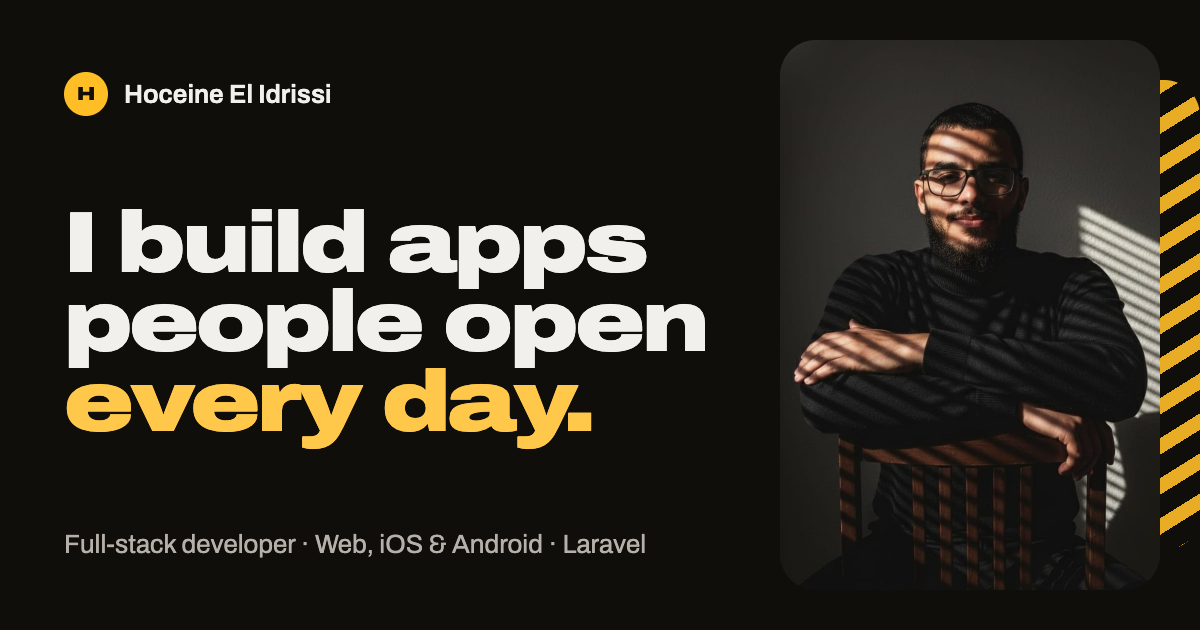
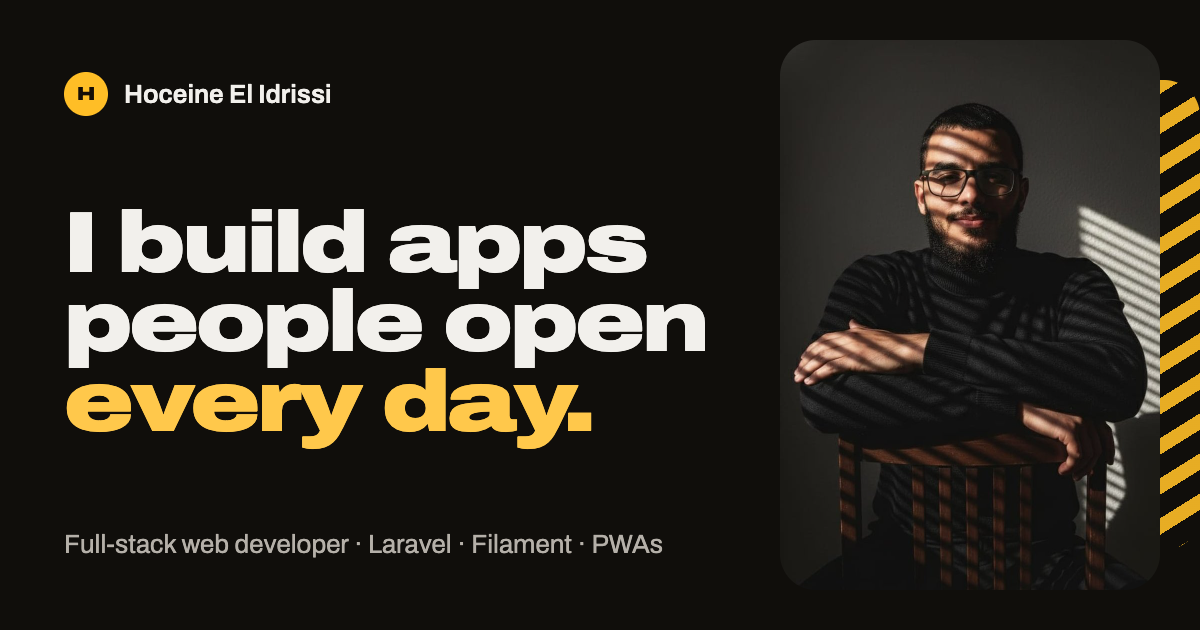
content: position as a web developer, with PWAs instead of native mobile

Changed region(s): [[0.1542, 0.8444, 0.555, 0.9048]]

diff --git a/assets/constants/index.js b/assets/constants/index.js
@@ -3,7 +3,7 @@ export const SITE_URL = "https://hoceine.com";
 export const profile = {
     name: "Hoceine El Idrissi",
     firstName: "Hoceine",
-    role: "Full-stack developer",
+    role: "Full-stack web developer",
     email: "contact@hoceine.com",
     whatsapp: "212697361188",
     formEndpoint: "https://formsubmit.co/ajax/contact@hoceine.com",
@@ -12,7 +12,7 @@ export const profile = {
     photo: "/images/hoceine.jpeg",
     twitter: "@HoceineElidrisi",
     description:
-        "Hoceine El Idrissi is a full-stack developer in Morocco building web platforms, native iOS and Android apps with NativePHP, and Filament admin panels, often in Arabic, for teams in Saudi Arabia, the UK and beyond.",
+        "Hoceine El Idrissi is a full-stack web developer in Morocco building web platforms, installable web apps (PWAs) and Filament admin panels, often in Arabic, for teams in Saudi Arabia, the UK and beyond.",
 };
 
 export const navLinks = [
@@ -28,8 +28,8 @@ export const services = [
         body: "From a first version you can put in front of users to a platform with tenants, roles, billing and four languages. Laravel on the back, Livewire, React or Vue on the front, whichever fits.",
     },
     {
-        title: "Mobile apps for iOS and Android",
-        body: "Native apps built with NativePHP that share the Laravel codebase you already have: camera, microphone, push notifications, offline screens. WiserPocket ships this way.",
+        title: "Installable web apps (PWAs)",
+        body: "Phone-first web apps that install to the home screen, work offline for the basics and send push notifications, without an app store in the way. Nokhbat Alhoffaz and WiserPocket both work this way.",
     },
     {
         title: "Admin panels and Filament plugins",
@@ -73,7 +73,7 @@ export const technologies = [
     { name: "TypeScript", icon: "/images/tech/ts.svg", group: "also" },
     { name: "MySQL", icon: "/images/tech/mysql.svg", group: "also" },
     { name: "React", icon: "/images/tech/react.svg", group: "also" },
-    { name: "NativePHP", icon: null, group: "also" },
+    { name: "PWA", icon: null, group: "also" },
     { name: "Pest", icon: null, group: "also" },
     { name: "Laravel Forge", icon: "/images/tech/forge.svg", group: "tools" },
     { name: "GitHub", icon: "/images/tech/github.svg", group: "tools" },
@@ -142,19 +142,19 @@ export const projects = [
     },
     {
         name: "WiserPocket",
-        tagline: "AI finance tracker, on web, iOS and Android",
+        tagline: "AI finance tracker you can talk to",
         description:
-            "Log spending by talking or by snapping a receipt, then ask an AI assistant about your own money. Budgets, goals, debts and recurring transactions in four languages, with a native mobile app built on NativePHP.",
+            "Log spending by talking or by snapping a receipt, then ask an AI assistant about your own money. Budgets, goals, debts and recurring transactions in four languages, installable on any phone.",
         year: 2025,
         role: "Solo",
-        platforms: "Web, iOS, Android",
-        stack: ["Laravel", "React", "NativePHP", "Gemini"],
+        platforms: "Web, PWA",
+        stack: ["Laravel", "React", "Inertia", "Gemini"],
         cover: "phone",
         url: "/projects/wiserpocket",
         demo: "https://wiserpocket.com",
         highlights: [
             "Voice and receipt input",
-            "Native iOS and Android with NativePHP",
+            "Installable, with an AI assistant that has memory",
             "English, Arabic, French and Spanish",
         ],
         featured: true,
@@ -234,20 +234,20 @@ export const projects = [
     },
     {
         name: "DecorCopilot",
-        tagline: "AI interior design, web and mobile",
+        tagline: "AI interior design",
         description:
-            "Photograph a room and restyle it in 30+ design styles with Google Gemini. Visual search, floor planning and suggestions you can act on, as a PWA and a NativePHP mobile app.",
+            "Photograph a room and restyle it in 30+ design styles with Google Gemini. Visual search, floor planning and suggestions you can act on, as an installable web app.",
         year: 2024,
         role: "Full stack",
-        platforms: "Web, mobile",
-        stack: ["Laravel", "Inertia", "Gemini", "NativePHP"],
+        platforms: "Web, PWA",
+        stack: ["Laravel", "Inertia", "Gemini", "PWA"],
         cover: "gallery",
         url: "/projects/decorcopilot",
         demo: "https://decorcopilot.com",
         highlights: [
             "30+ design styles",
             "Google Gemini image generation",
-            "PWA and NativePHP mobile app",
+            "Installable as a PWA",
         ],
         featured: true,
     },

diff --git a/components/Home/About.vue b/components/Home/About.vue
@@ -21,10 +21,10 @@ const groups = [
           <p>
             Laravel is home. On top of it I reach for whatever the product needs:
             <strong class="font-semibold text-ink">Livewire and Filament</strong> for admin-heavy platforms,
-            <strong class="font-semibold text-ink">React or Vue</strong> for rich interfaces, and
-            <strong class="font-semibold text-ink">NativePHP</strong> when the app belongs on a phone. That is how a
-            finance tracker ends up on the web, iOS and Android from one codebase, and a Hajj platform ships with six
-            separate panels without turning to mud.
+            <strong class="font-semibold text-ink">React or Vue</strong> for rich interfaces, and a
+            <strong class="font-semibold text-ink">PWA</strong> when people should keep it on their phone. That is how
+            a Quran circles app ends up on students' home screens, and a Hajj platform ships with six separate panels
+            without turning to mud.
           </p>
           <p>
             I care about the parts nobody sees in a demo: tenancy boundaries, queues that recover, tests that catch the

diff --git a/pages/index.vue b/pages/index.vue
@@ -4,9 +4,9 @@ import { SITE_URL, profile, projects } from "~/assets/constants";
 useHead({ titleTemplate: null });
 
 usePageSeo({
-  title: `${profile.name} · Full-stack developer, web and mobile`,
+  title: `${profile.name} · Full-stack web developer`,
   description:
-    "Hoceine El Idrissi is a full-stack developer in Morocco building web platforms, native iOS and Android apps with NativePHP, and Filament admin panels. See selected work, services and writing.",
+    "Hoceine El Idrissi is a full-stack web developer in Morocco building web platforms, installable web apps and Filament admin panels. See selected work, services and writing.",
   path: "/",
   type: "profile",
 });

diff --git a/components/Home/Work.vue b/components/Home/Work.vue
@@ -13,7 +13,7 @@ const layout = ["md:col-span-7", "md:col-span-5 md:mt-40", "md:col-span-5", "md:
     <div class="grid gap-6 md:grid-cols-12 md:items-end">
       <h2 id="work-title" class="wide text-display-lg font-black md:col-span-7">Selected work</h2>
       <p class="max-w-md text-lg text-muted md:col-span-5 md:justify-self-end">
-        Web platforms, mobile apps and a commercial Filament plugin, in production since 2023 and several of them in
+        Web platforms, installable web apps and a commercial Filament plugin, in production since 2023 and several of them in
         Arabic. A few up close:
       </p>
     </div>

diff --git a/pages/blog/[...slug].vue b/pages/blog/[...slug].vue
@@ -156,7 +156,7 @@ useJsonLd([
           <div>
             <p class="font-semibold">Written by {{ profile.name }}</p>
             <p class="mt-2 leading-relaxed text-muted">
-              Full-stack developer in Morocco building web and mobile products with Laravel, Filament and Livewire.
+              Full-stack web developer in Morocco building products with Laravel, Filament and Livewire.
               If you need someone who has already solved this kind of problem,
               <NuxtLink to="/#contact" class="link font-medium text-ink">let's talk</NuxtLink>.
             </p>

diff --git a/components/Home/Hero.vue b/components/Home/Hero.vue
@@ -43,7 +43,7 @@ onUnmounted(() => clearInterval(timer));
 
         <p class="rise mt-8 max-w-[34rem] text-lg leading-relaxed text-muted sm:text-xl" style="--d: 420ms">
           I'm <strong class="font-semibold text-ink">{{ profile.name }}</strong>, a full-stack developer in Morocco.
-          Web platforms, native iOS and Android apps with NativePHP, and admin panels that teams in Saudi Arabia, the UK
+          Web platforms, installable web apps and admin panels that teams in Saudi Arabia, the UK
           and Palestine rely on, often in Arabic.
         </p>
 

diff --git a/components/Site/Footer.vue b/components/Site/Footer.vue
@@ -10,7 +10,7 @@ const year = new Date().getFullYear();
       <div>
         <p class="wide text-2xl font-extrabold tracking-tight">{{ profile.name }}</p>
         <p class="mt-2 max-w-md text-muted">
-          {{ profile.role }} in {{ profile.location }}. Building web and mobile apps with Laravel, and writing
+          {{ profile.role }} in {{ profile.location }}. Building web apps with Laravel, and writing
           about how.
         </p>
         <a :href="`mailto:${profile.email}`" class="link mt-5 inline-block font-medium">{{ profile.email }}</a>

diff --git a/pages/projects/index.vue b/pages/projects/index.vue
@@ -6,7 +6,7 @@ const others = projects.filter((project) => !project.featured);
 
 usePageSeo({
   title: "Projects",
-  description: `${projects.length} projects by Hoceine El Idrissi: web platforms, admin panels, mobile apps, browser extensions and developer tools built with Laravel, Filament, Livewire and Vue.`,
+  description: `${projects.length} projects by Hoceine El Idrissi: web platforms, admin panels, installable web apps, browser extensions and developer tools built with Laravel, Filament, Livewire and Vue.`,
   path: "/projects",
 });
 

diff --git a/content/projects/wiserpocket.md b/content/projects/wiserpocket.md
@@ -1,7 +1,7 @@
 ---
-title: WiserPocket – AI Finance Tracker for Web, iOS and Android
-description: An AI finance tracker with voice input and receipt scanning, built with Laravel, Inertia and React on the web and NativePHP for native iOS and Android apps.
-tags: [Laravel, React, Inertia, NativePHP, Filament, AI, Mobile, Finance]
+title: WiserPocket – AI Finance Tracker
+description: An AI finance tracker with voice input and receipt scanning, built with Laravel, Inertia and React.
+tags: [Laravel, React, Inertia, Filament, AI, PWA, Finance]
 noImage: true
 createdAt: 2025-11-27T00:00:00.000Z
 updatedAt: 2026-09-19T00:00:00.000Z
@@ -14,7 +14,7 @@ createdBy: "Hoceine EL IDRISSI"
 
 WiserPocket is a personal finance tracker you can talk to. Say "twelve dirhams for coffee" or photograph a receipt, and the transaction is logged and categorised. Then ask the assistant how your month is going, and it answers from your own data.
 
-It runs on the web as an installable app, and as a native app for iOS and Android built with NativePHP, from the same Laravel codebase.
+It runs on the web and installs to the phone like an app.
 
 ### What's inside
 
@@ -26,15 +26,14 @@ It runs on the web as an installable app, and as a native app for iOS and Androi
 - **Free calculators** – 50/30/20 budget, take-home pay, debt payoff and compound interest, open to everyone
 - **Passkeys and social sign-in** – WebAuthn and Google login alongside email
 
-### The mobile app
+### A mobile companion
 
-The iOS and Android app is a NativePHP Mobile project that talks to the web app through a versioned API secured with Sanctum tokens. It uses native plugins for the camera, the microphone, sharing, network status, local notifications and in-app review. Getting the signed Android release from roughly 111 MB down to 34 MB took a careful pass over what actually needs to ship on the device.
+I'm also experimenting with a mobile companion built with NativePHP, talking to the web app through a versioned API. It's early work; the web app is the product.
 
 ### Built with
 
 - **Laravel 12** – Backend, API and queues
 - **Inertia and React 19** – Web interface
-- **NativePHP Mobile** – Native iOS and Android app
 - **Filament 4** – Internal admin
 - **Tailwind CSS 4** – Styling
 - **Paddle** – Subscriptions

diff --git a/content/projects/decorcopilot.md b/content/projects/decorcopilot.md
@@ -1,5 +1,5 @@
 ---
-title: DecorCopilot – AI Interior Design for Web and Mobile
+title: DecorCopilot – AI Interior Design
 description: AI-powered room transformation platform using Google Gemini with 30+ design styles, visual search, and floor planning.
 tags: [Laravel, Livewire, FilamentPHP, Google Gemini, Tailwind CSS, AI, SaaS]
 image: "/images/my_projects/decorcopilot/mockup.png"
@@ -9,15 +9,11 @@ updatedAt: 2024-06-01T00:00:00.000Z
 createdBy: "Hoceine EL IDRISSI"
 ---
 
-## DecorCopilot – AI Interior Design for Web and Mobile
+## DecorCopilot – AI Interior Design
 
 ### Overview
 
 DecorCopilot is an AI-powered interior design platform that transforms rooms using Google Gemini AI. Users can upload photos of their spaces and receive AI-generated design suggestions across 30+ styles.
-
-### On mobile
-
-Besides the installable web app, DecorCopilot has a native mobile app built with NativePHP, so people can photograph a room and restyle it without leaving their phone.
 
 ### Key Features
 
